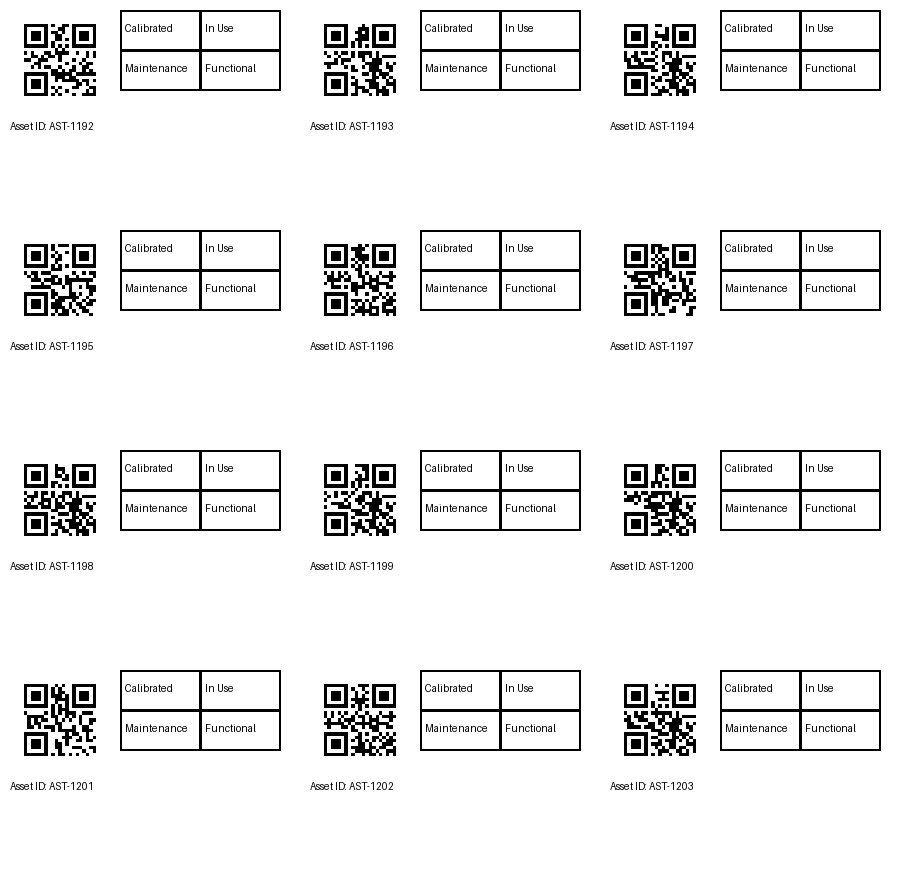
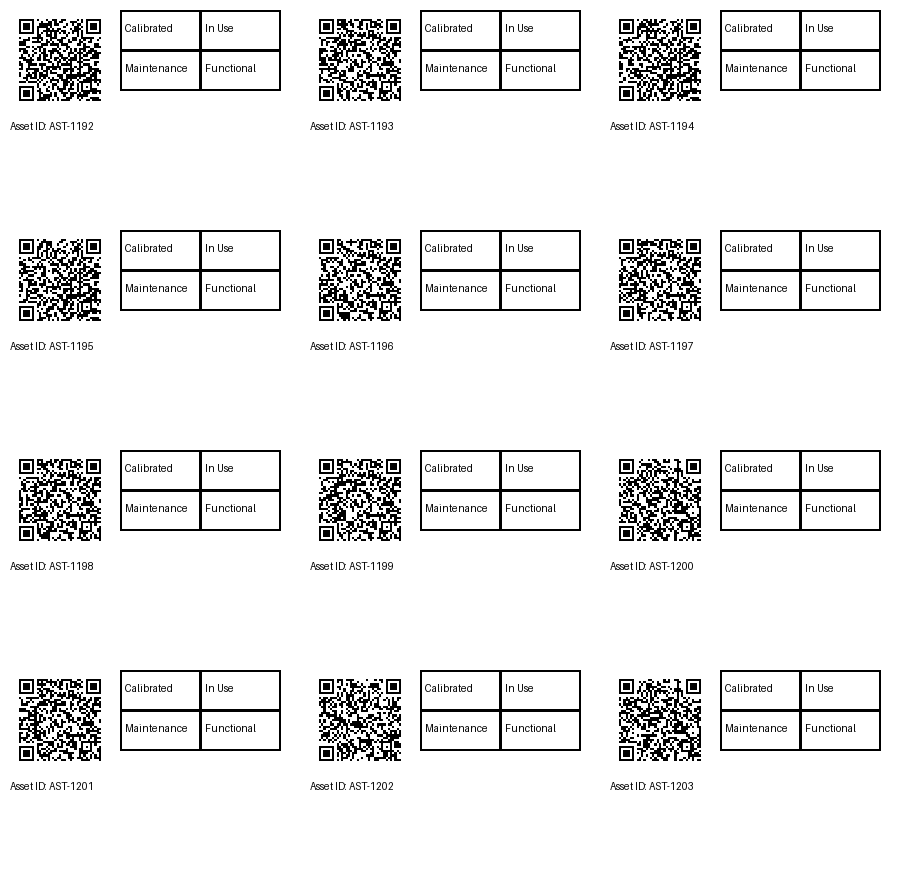
Updated QR links in generate_labels.py to use deployed URL

diff --git a/generate_labels.py b/generate_labels.py
@@ -13,17 +13,21 @@ if "Functional" not in df.columns:
 label_width = 300
 label_height = 220
 grid_labels = ["Calibrated", "In Use", "Maintenance", "Functional"]
-font_path = "arial.ttf"  # Change if needed
+font_path = "arial.ttf"  # Use system font or path to TTF if needed
 
 # Create output dir
 os.makedirs("labels", exist_ok=True)
+
+# Base URL of deployed app
+base_url = "https://dynamic-asset-tracking-app.onrender.com"
 
 def draw_label(asset_id):
     img = Image.new("RGB", (label_width, label_height), "white")
     draw = ImageDraw.Draw(img)
 
-    # QR Code
-    qr = qrcode.make(str(asset_id))
+    # QR Code with asset ID in URL
+    qr_url = f"{base_url}/?asset_id={asset_id}"
+    qr = qrcode.make(qr_url)
     qr = qr.resize((100, 100))
     img.paste(qr, (10, 10))
 
@@ -40,7 +44,7 @@ def draw_label(asset_id):
             label_index = i * 2 + j
             draw.text((x0 + 5, y0 + 12), grid_labels[label_index], fill="black")
 
-    # ID below
+    # Asset ID below
     draw.text((10, 120), f"Asset ID: {asset_id}", fill="black")
 
     return img
@@ -70,4 +74,4 @@ for p in range(pages):
         page.paste(label, (x, y))
     page.save(f"labels/page_{p+1}.png")
 
-print("✅ Labels generated in 'labels/' folder.")
+print("✅ Labels generated in 'labels/' folder with linked QR codes.")
